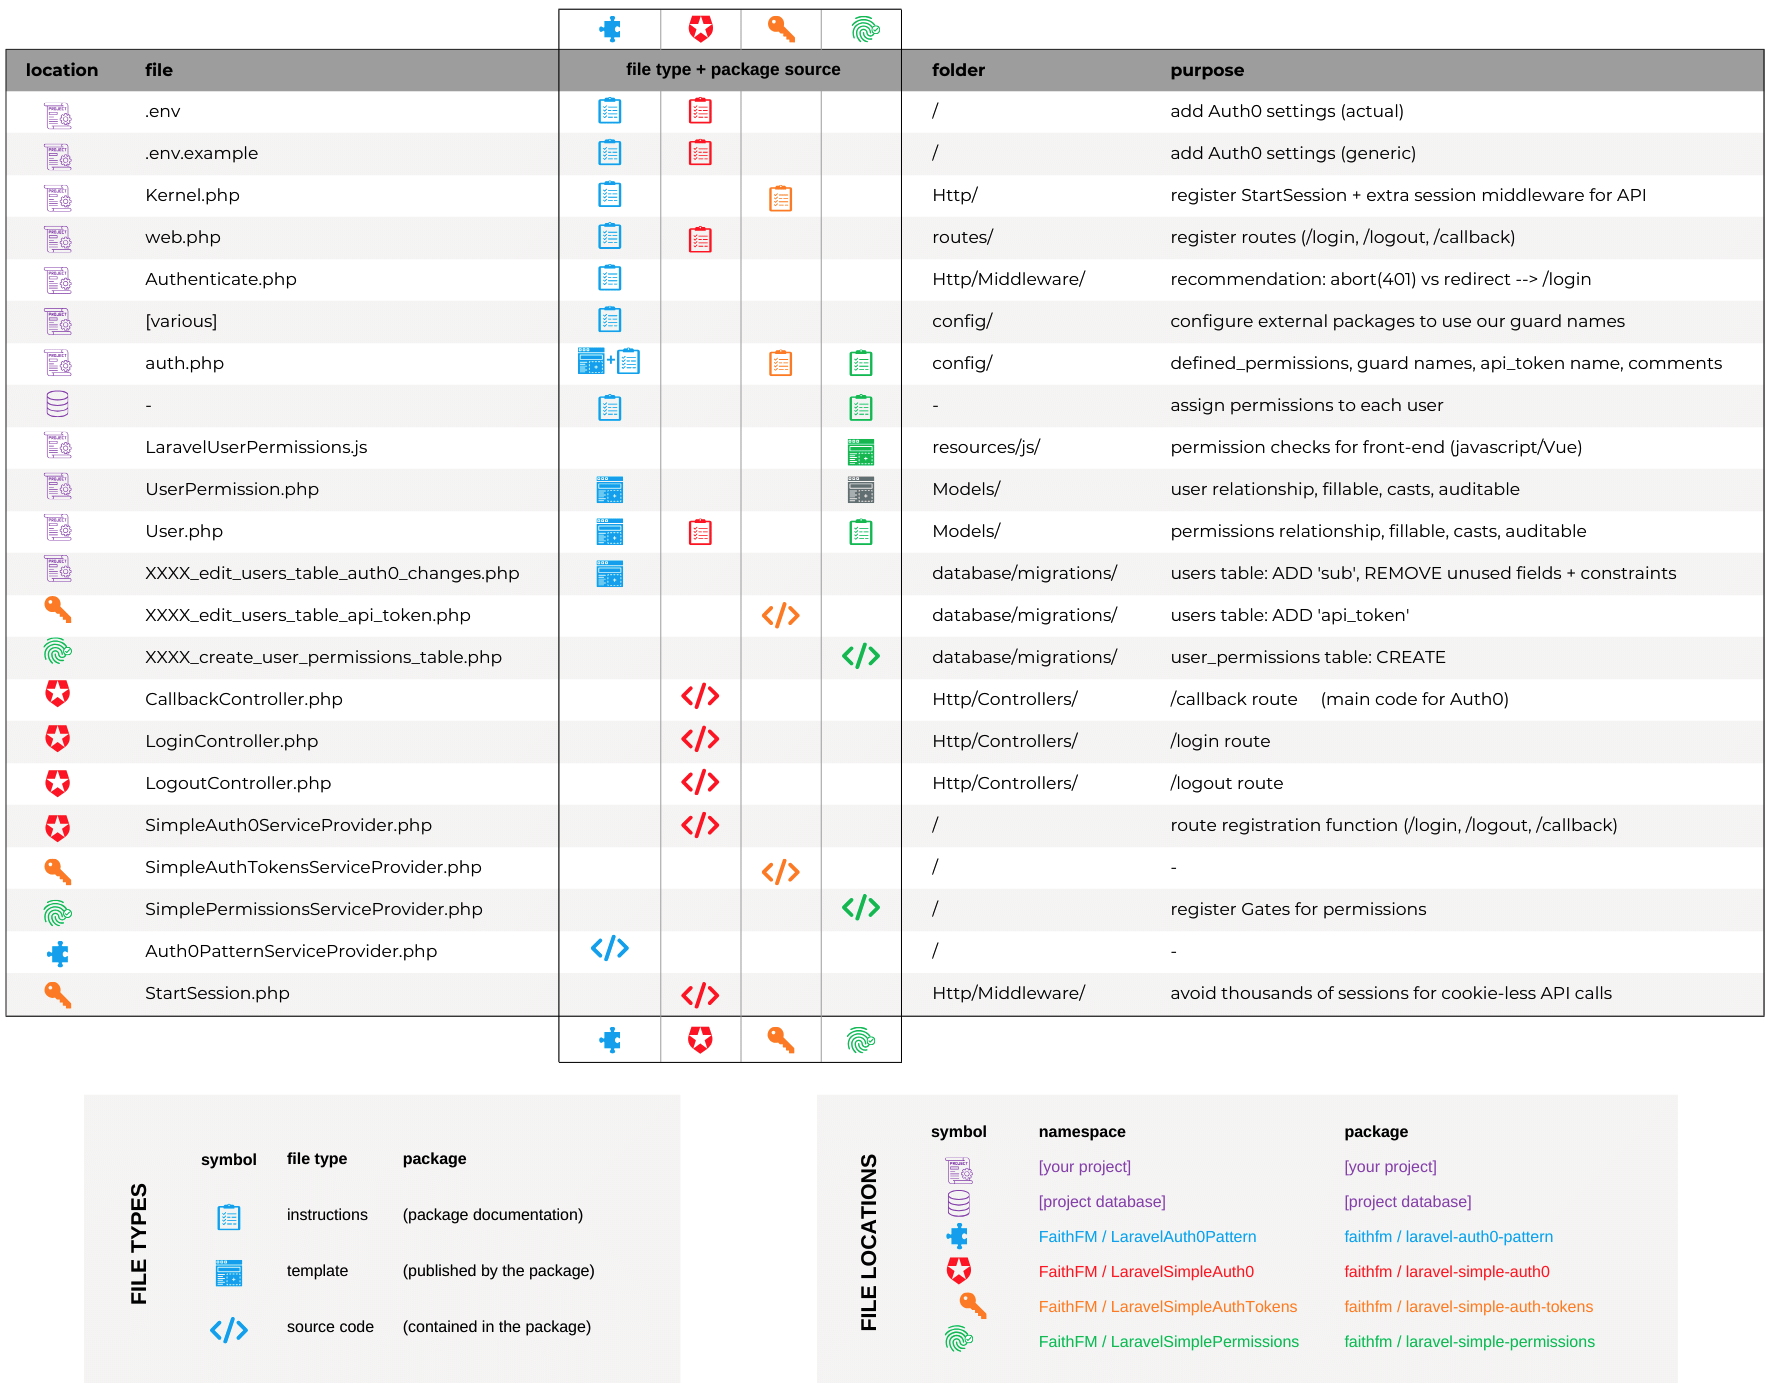
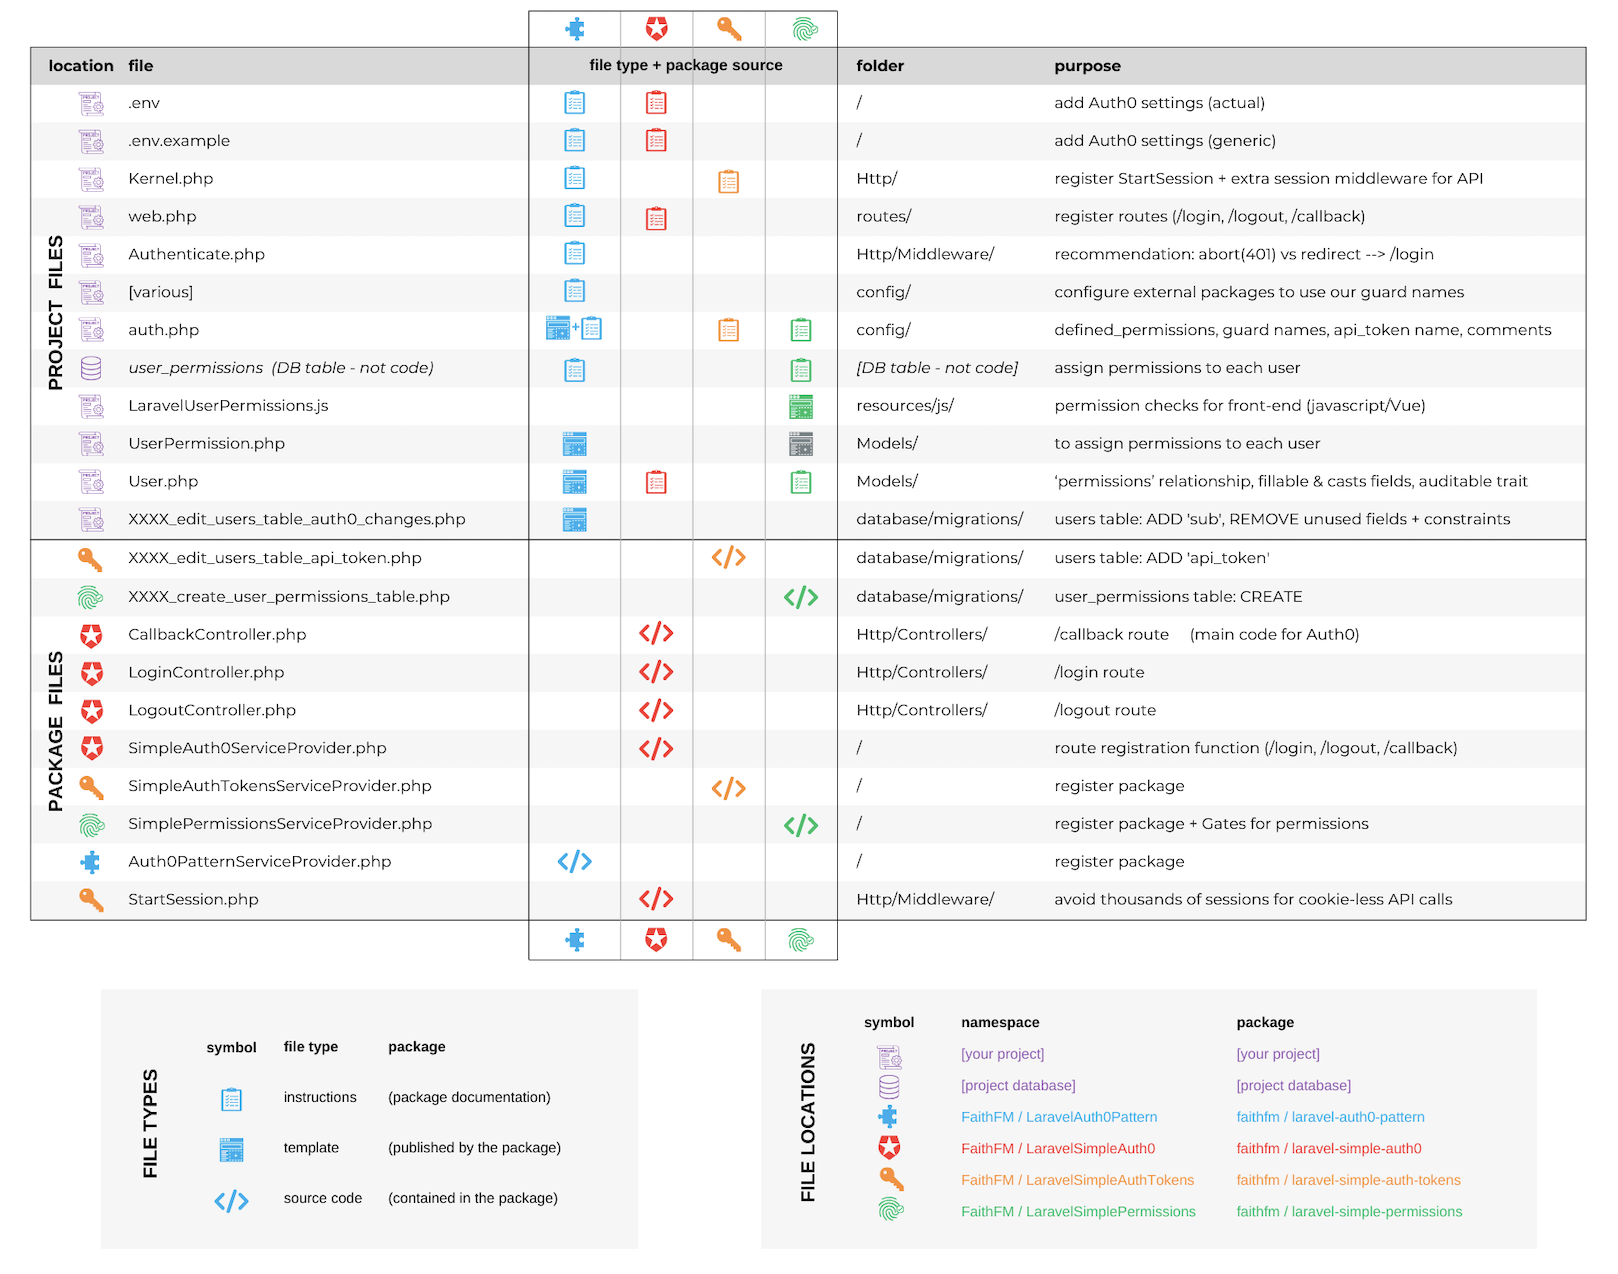
Improve documentation
* README.md
* docs/external-package-config.md
* docs/installation.md
* docs/update-notes-v4.md
* docs/disambiguation-auth-guard-vs-middleware-group-names.md

Update docs/structure-of-pattern.png to reflect updated structure

diff --git a/docs/update-notes-v4.md b/docs/update-notes-v4.md
@@ -30,9 +30,18 @@ Uninstall then re-install the package to load it from packagist:
 ```bash
 composer remove faithfm/laravel-auth0-pattern
 composer require faithfm/laravel-auth0-pattern
+php artisan vendor:publish --tag=laravel-simple-permissions --force
+php artisan vendor:publish --tag=laravel-auth0-pattern --force
 ```
 
-
+### Migrating from v2
+Be sure to update:
+* The [Auth Middleware](https://github.com/faithfm/laravel-auth0-pattern/blob/lidiaordonez-patch-1/docs/update-notes-v3.md#auth-middleware)
+* The [.env file](https://github.com/faithfm/laravel-auth0-pattern/blob/lidiaordonez-patch-1/docs/update-notes-v3.md#env-file)
+* The [new callback url](https://github.com/faithfm/laravel-auth0-pattern/blob/lidiaordonez-patch-1/docs/update-notes-v3.md#new-callback-url)
+* The change in the [blade file](https://github.com/faithfm/laravel-auth0-pattern/blob/lidiaordonez-patch-1/docs/update-notes-v3.md#blade-files)
+* If you are using Nova, this [change](https://github.com/faithfm/laravel-auth0-pattern/blob/lidiaordonez-patch-1/docs/update-notes-v3.md#nova) is needed
+  
 
 ### Login/logout/callback Route Registration:
 
@@ -59,14 +68,25 @@ Revert the dual-web+api middleware groups in app/Providers/**RouteServiceProvide
 public function boot()
 
 // FOR LARAVEL 8
+        Route::prefix('web')
+-            ->middleware('web_guard')
++            ->middleware('web')
+            ->group(base_path('routes/web.php'));
+...
         Route::prefix('api')
--            ->middleware('api')
-+            ->middleware(['web', 'api'])
+-            ->middleware(['web_guard', 'api_guard'])
++            ->middleware('api')
             ->group(base_path('routes/api.php'));
 
+
 // FOR LARAVEL 9 + 10
--       Route::middleware('api')
-+       Route::middleware(['web', 'api'])
+-       Route::middleware('web_guard')
++       Route::middleware('web')
+            ->prefix('web')
+            ->group(base_path('routes/web.php'));
+...
+-       Route::middleware(['web_guard', 'api_guard'])
++       Route::middleware('api')
             ->prefix('api')
             ->group(base_path('routes/api.php'));
 ```
@@ -79,27 +99,30 @@ Replace the *web* + *api* route middleware definitions in app/Http/**Kernel.php*
 
 ```diff
 protected $middlewareGroups = [
-    'web' => [
+-   'web_guard' => [
++   'web' => [
         \App\Http\Middleware\EncryptCookies::class,
         \Illuminate\Cookie\Middleware\AddQueuedCookiesToResponse::class,
         // \Illuminate\Session\Middleware\StartSession::class,          // replace Laravel default with...
-        \FaithFM\SimpleAuthTokens\Http\Middleware\StartSession::class,  // ...FaithFM\SimpleAuthTokens class - which prevents creation of (numerous) session files for requests containing 'api_token=XXXX'  (ie: clients without support for cookies will normally result in creation of a session-file for every API call - potentially resulting in hundreds/thousands of session-files)
+-       \FaithFM\Auth0Pattern\Http\Middleware\StartSession::class,
++       \FaithFM\SimpleAuthTokens\Http\Middleware\StartSession::class,  // ...FaithFM\SimpleAuthTokens class - which prevents creation of (numerous) session files for requests containing 'api_token=XXXX'  (ie: clients without support for cookies will normally result in creation of a session-file for every API call - potentially resulting in hundreds/thousands of session-files)
         \App\Http\Middleware\VerifyCsrfToken::class,
         \Illuminate\Routing\Middleware\SubstituteBindings::class,
         \App\Http\Middleware\HandleInertiaRequests::class,
     ],
     
-    'api' => [
+-   'api_guard' => [
++   'api' => [
         // \Laravel\Sanctum\Http\Middleware\EnsureFrontendRequestsAreStateful::class,
         \Illuminate\Routing\Middleware\ThrottleRequests::class.':api',
         \Illuminate\Routing\Middleware\SubstituteBindings::class,
         
-        // OPTIONAL session-related middleware for API routes - recommended by FaithFM\SimpleAuthTokens
-        \App\Http\Middleware\EncryptCookies::class,
-        \Illuminate\Cookie\Middleware\AddQueuedCookiesToResponse::class,
-        \FaithFM\SimpleAuthTokens\Http\Middleware\StartSession::class,		// FaithFM\SimpleAuthTokens class
-        \Illuminate\View\Middleware\ShareErrorsFromSession::class,
-        \App\Http\Middleware\VerifyCsrfToken::class,
++       // OPTIONAL session-related middleware for API routes - recommended by FaithFM\SimpleAuthTokens
++       \App\Http\Middleware\EncryptCookies::class,
++       \Illuminate\Cookie\Middleware\AddQueuedCookiesToResponse::class,
++       \FaithFM\SimpleAuthTokens\Http\Middleware\StartSession::class,		// FaithFM\SimpleAuthTokens class
++       \Illuminate\View\Middleware\ShareErrorsFromSession::class,
++       \App\Http\Middleware\VerifyCsrfToken::class,
     ],
 ],
 ```
@@ -173,6 +196,3 @@ Test valid migration status with:
 php artisan migrate:status
 ```
 
-
-
-### 

diff --git a/README.md b/README.md
@@ -4,7 +4,7 @@
 
 An opinionated library/pattern for Laravel Authentication (AuthN) and Authorisation (AuthZ) - designed to improve consistency across our Faith FM Laravel/Vue projects.
 
-Much of the functionality of our pattern is now contained in **3x reusable packages** that will be of more widespread interest to other developers:
+Much of the functionality of our pattern is now delegated to **3x reusable packages**. These child packages are less opinionated and will be of more widespread interest to other developers:
 
 * [laravel-**simple-auth0**](https://github.com/faithfm/laravel-simple-auth0) - simple **session**-based Authentication using **Auth0**.
   
@@ -25,7 +25,7 @@ Our pattern:
 
 
 
-The key files required/provided are:
+The structure of the key files provided by this package (and each of the child packages) is:
 
 [![structure-of-pattern](docs/structure-of-pattern.png)](https://www.canva.com/design/DAGEfYrNYng/rDMsUUS3jrcCMHGQLHMu3g/edit)
 
@@ -39,7 +39,9 @@ The key files required/provided are:
 
 * Configure Auth0 *(including allowed callback routes)* and add Auth0 settings to your **.env** file:    
 
-  *(It's wise to update **.env.example** template too.  See [faithfm/**laravel-simple-auth0**](https://github.com/faithfm/laravel-simple-auth0?tab=readme-ov-file#configuration) package for further details regarding Auth0 configuration, etc.)*
+> [!TIP]
+>
+> *(It's wise to update **.env.example** template too.  See [faithfm/**laravel-simple-auth0**](https://github.com/faithfm/laravel-simple-auth0?tab=readme-ov-file#configuration) package for further details regarding Auth0 configuration, etc.)*
 
   ```php
   AUTH0_DOMAIN=XXXX.xx.auth0.com
@@ -60,11 +62,11 @@ The key files required/provided are:
 
 * Assign permissions to users via the `user_permissions` table:
 
-  *(The 'restrictions' column is a JSON field that can **optionally** be used to define specific restrictions/qualifications to a privilege.  Ie: our Media project uses 'filter' and 'fields' to restrict users to editing specific files/fields.)*
+> [!NOTE]
+>
+>*The 'restrictions' column is a JSON field that can **optionally** be used to define specific restrictions/qualifications to a privilege.  Ie: our Media project uses 'filter' and 'fields' to restrict users to editing specific files/fields.*
 
-<img align="left" src="docs/user_permissions-table.jpg" alt="user_permissions-table" />
-
-
+![user_permissions-table](docs/user_permissions-table.jpg)
 
 ## How It Works
 
@@ -144,6 +146,8 @@ Gate::authorize('use-app');                     // protect elsewhere (ie: contro
 @can('use-app')                                 // blade templates
 ```
 
+> [!IMPORTANT]
+> 
 > Notice the special '|' character that can be used to test multiple (ORed) permissions in a single gate.  This is an extension to Laravel's normal functionality.
 
 More complex restrictions-field checking/filtering has currently only been implemented in the front-end (see next section)... but in the mean-time we could potentially use something like this:   (UNTESTED)
@@ -203,6 +207,8 @@ The value of the *status* field will be:
 
 The remaining fields (ie: *fields* and *filter* in this example) are directly copied from the *'restrictions'* JSON data in the database.
 
+> [!IMPORTANT]
+> 
 > REMINDER: according to good security practice you should not rely only upon front-end checks to enforce security, but should perform security checks in the back-end too.
 
 ## Sample code to pass permissions via LaravelAppGlobals to front-end

diff --git a/docs/external-package-config.md b/docs/external-package-config.md
@@ -30,54 +30,3 @@ Modify `config/audit.php`:
 ```
 
 
-
-
-
-## ~~Middleware Group Names:~~
-
-**NO LONGER REQUIRED** (these were renamed in v2.2.0, but since v4.0.0 have been reverted to standard naming conventions.
-
-## laravel/nova
-
-Modify `config/nova.php`:
-
-```diff
-... 
-//Nova Route Middleware
-'middleware' => [
--       'web',
-+       'web_group',
-        HandleInertiaRequests::class,
-        DispatchServingNovaEvent::class,
-        BootTools::class,
-    ],
-```
-
-
-
-## binarytorch/larecipe
-
-Modify `config/larecipe.php`:
-
-```diff
-//Documentation Routes
-
-'docs' => [
-        'route' => '/docs',
-        'path' => '/resources/docs',
-        'landing' => 'sched-editor-colour-schemes',
--       'middleware' => ['web'],
-+       'middleware' => ['web_group'],
-    ],
-   ...
-   'settings' => [
-        'auth' => false,
-        'guard' => null,
-        'ga_id' => '',
-        'middleware' => [
--           'web',
-+           'web_group',
-        ],
-
-```
-

diff --git a/docs/disambiguation-auth-guard-vs-middleware-group-names.md b/docs/disambiguation-auth-guard-vs-middleware-group-names.md
@@ -1,4 +1,4 @@
-## Disambiguation of "Authentication Guard" and "Route Middleware Group" names
+# Disambiguation of "Authentication Guard" and "Route Middleware Group" names
 
 Laravel unfortunately re-uses the names *'web'* and *'api'* for both "Authentication Guards" and "Route Middleware Groups".
 
@@ -18,5 +18,5 @@ This creates quite a bit of confusion, and furthermore the brevity (and lack of 
 
   * **'api'** (Laravel default) --> **'api_group'** (v2.2.0) --> **'web'** (v4.0.0)
 
-Apart from remembering to rename these in our own codebase, these names often appear in config files for the [external packages](docs/external-package-config.md) we use.
+Apart from remembering to rename these in our own codebase, these names often appear in config files for the [external packages](external-package-config.md) we use.
 

diff --git a/docs/installation.md b/docs/installation.md
@@ -10,8 +10,7 @@ php artisan vendor:publish --tag=laravel-auth0-pattern --force
 php artisan migrate
 ```
 
-See [pattern structure diagram](structure-of-pattern.jpeg) for information about published files and migrations.
-
+See [pattern structure diagram](structure-of-pattern.png) for information about published files and migrations.
 
 
 ## Manual Configuration:
